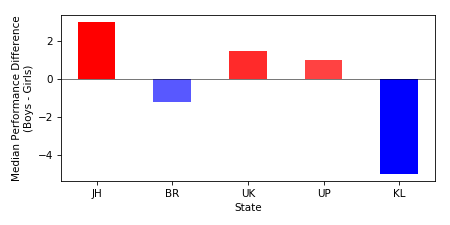
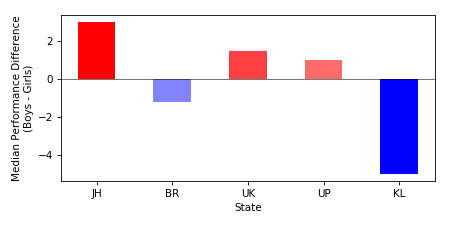
edited images in post and imports in blog

Changed region(s): [[0.6533, 0.2489, 0.7778, 0.3733], [0.3422, 0.3422, 0.4356, 0.4667]]

diff --git a/_posts/2017-10-17-barchart.md b/_posts/2017-10-17-barchart.md
@@ -7,7 +7,7 @@ aside:
 key: 20171017
 author: Bibin Jose
 ---
-It's fairly common to encode a variable with color intensity like below. This post will take your step-by-step on how to create one like below.
+It's fairly common to encode a variable with color intensity like below. Here bar color reflects its magnitude. This post will take your step-by-step on how to create one like below.
 
 ![barchart](/assets/20171017/barchart.png)
 
@@ -31,7 +31,7 @@ Lets make a filled bar chart with the `pandas.dataframe` below. Our aim is to ma
 ```python
 import matplotlib
 import matplotlib.pyplot as plt
-from matplotlib import mpatches
+from matplotlib import mpatches, colors
 import pandas as pd
 
 d_per = \
